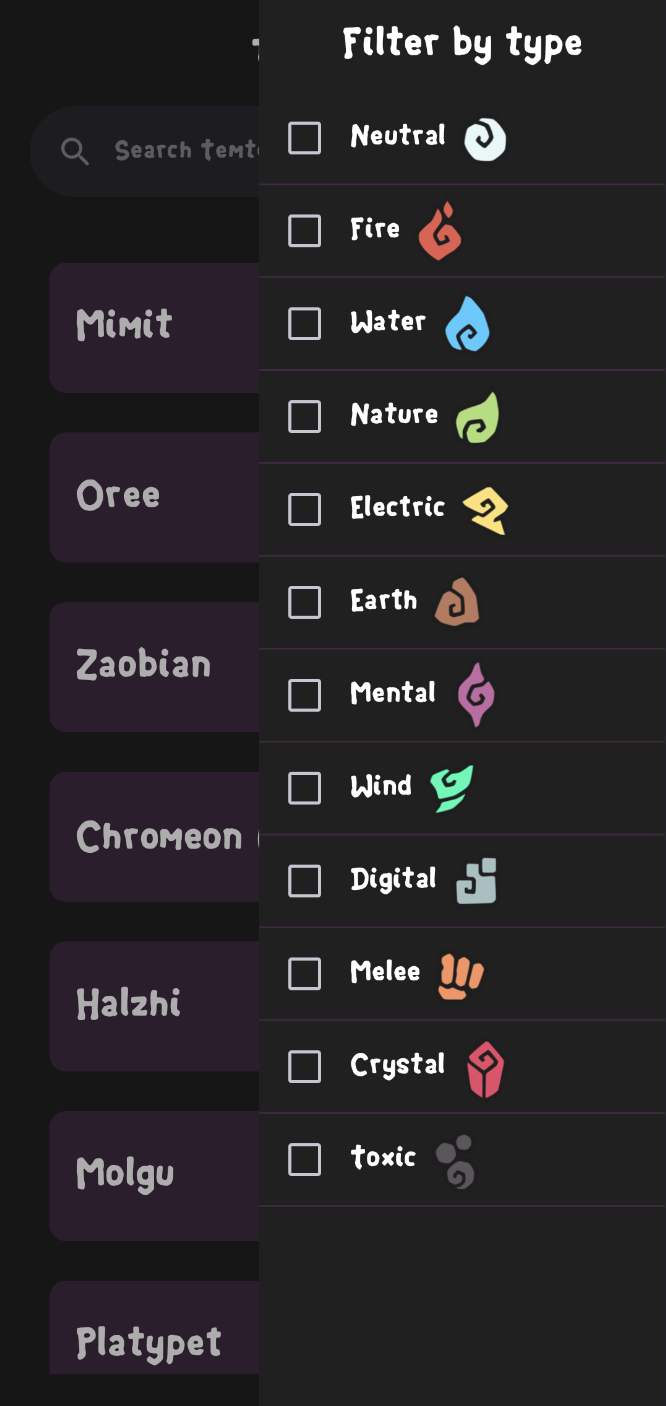
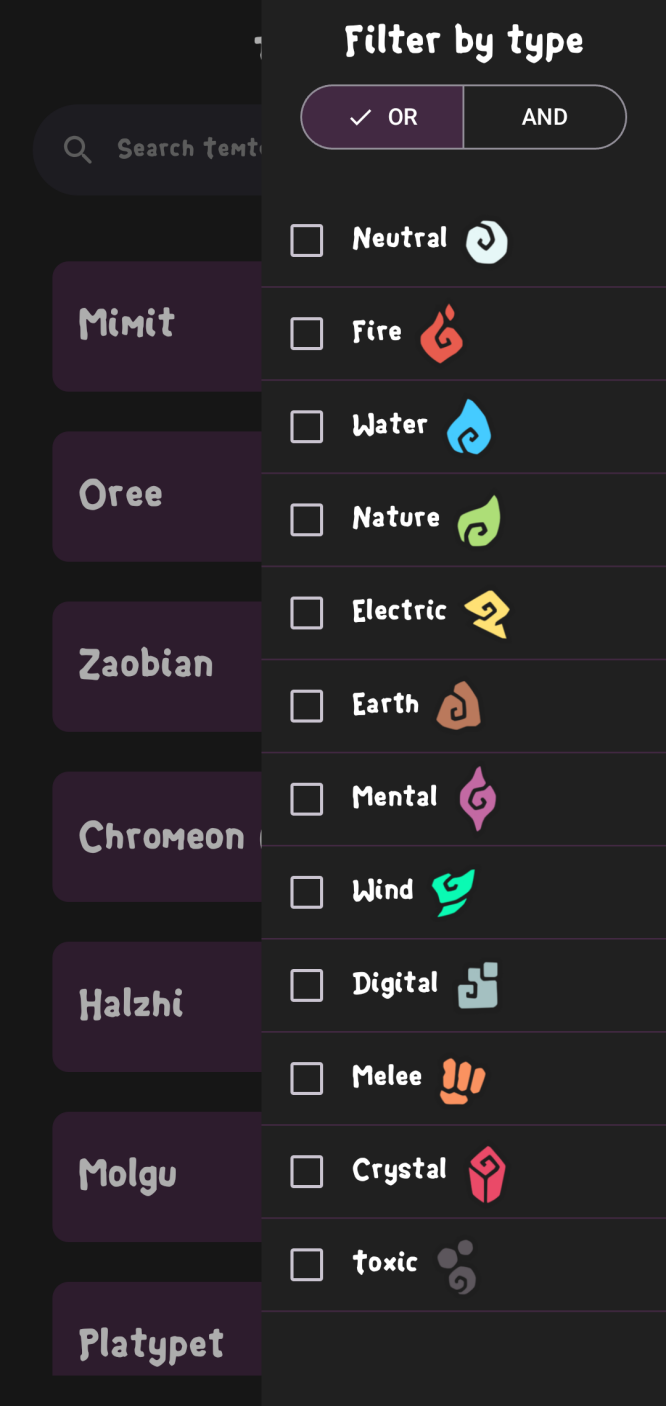
New screenshots of filters

diff --git a/README.md b/README.md
@@ -45,8 +45,8 @@ Tempedia is a detailed encyclopedia that contains information about every Temtem
 </div>
 <div align="center">
     <img src="screenshots/Filters.png" alt="Filters" style="width: 30%; margin: 10px;">
-    <img src="screenshots/SearchByFilters.png" alt="SearchByFilters" style="width: 30%; margin: 10px;">
-    <img src="screenshots/ResultSearchByFilters.png" alt="ResultSearchByFilters" style="width: 30%; margin: 10px;">
+    <img src="screenshots/SearchByFiltersOR.png" alt="SearchByFilters" style="width: 30%; margin: 10px;">
+    <img src="screenshots/SearchByFiltersAND.png" alt="ResultSearchByFilters" style="width: 30%; margin: 10px;">
 </div>
 
 <!-- Temtem Details - Basic Info -->
